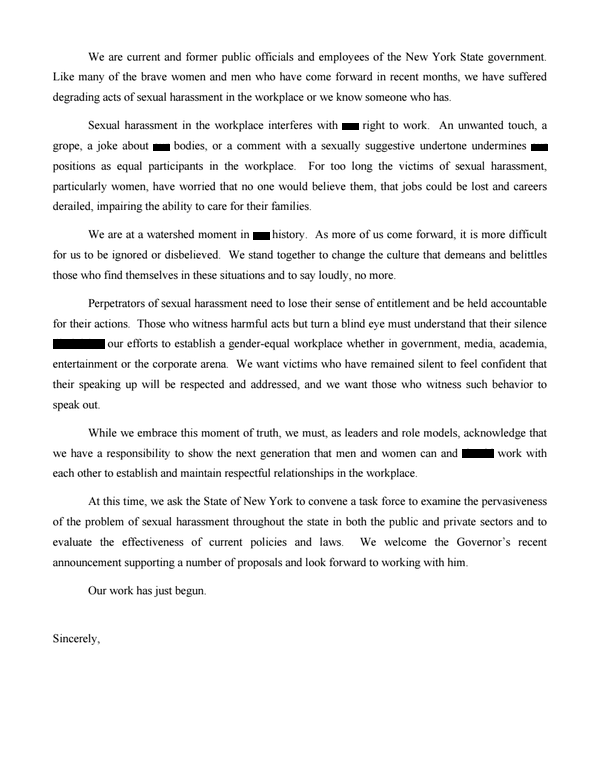
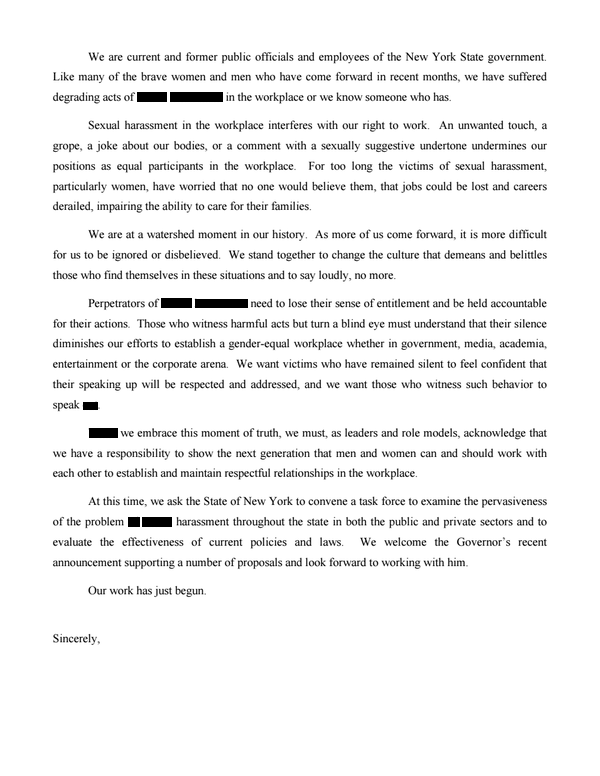
Sentence Decon Part1
Start of sentence decon, working but very buggy and not getting all sentences?

diff --git a/imageProcessing.py b/imageProcessing.py
@@ -1,3 +1,5 @@
+from operator import index
+from posixpath import split
 import cv2
 import numpy as np
 import matplotlib.pyplot as plt
@@ -38,6 +40,8 @@ class imageProcessing():
                     word = word.lower()
                     f_object.write(word + '\n')
                 f_object.close()
+
+        return sentencewords
     
 
     def setup_image(self, img):
@@ -70,8 +74,8 @@ class imageProcessing():
         if os.path.exists("data/words-boxs.csv"):
             os.remove('data/words-boxs.csv')
 
-    def createCSV(self, words, wordstoremove):
-        # Creating words-text.csv ( Contains all words that are found)
+    def createCSV(self, words):
+        # Creating words-text.csv ( Contains all words that are found )
         k = 0
         for j in words:
             tempList = list([words[k]])
@@ -85,7 +89,7 @@ class imageProcessing():
                 f_object.close()
 
     def boundBoxesCSV(self, d):
-        # Creating words-boxs.csv ( Contains all bound boxes that are found)
+        # Creating words-boxs.csv ( Contains all bound boxes that are found )
         n_boxes = len(d['level'])
         for i in range(n_boxes):
             if d['text'][i] != "":
@@ -101,7 +105,7 @@ class imageProcessing():
                     f_object.close()
                 del wList[:]
 
-    def matchWords(self, words, temp, main):
+    def matchWords(self, words, temp, main, sentenceindex):
         # Match the words with the words in the csv file
         indexList = []
         with open('data/words-matched.csv', 'w') as outFile:
@@ -113,6 +117,9 @@ class imageProcessing():
                     words[index] = words[index].replace(
                         line, line + ' ')  # needed for duplicates
                     indexList.append(index)
+        indexList.extend(sentenceindex)
+        print(indexList)
+        list(set(indexList))
         return indexList
 
     def drawBoxes(self, img, indexList):
@@ -126,15 +133,55 @@ class imageProcessing():
         cv2.imwrite("static/images/output.png", img)
         return "output.png"
 
+    def drawSentenceBoxes(self, sentencewords):
+        # get position of sentence words from words-text.csv
+        # return sentenceindexlist 
+        # append to indexList in matchWords
+        print(sentencewords)
+        with open('data/words-text.csv', 'r') as f:
+            read = list(csv.reader(f))
+            indexes = []
+            for s in sentencewords:
+                splitsentence = s.split(' ')
+                print(splitsentence)
+
+                for i, value in enumerate(read):
+                    # i = index, value = text
+                    # print(i, value)
+                    if value[0] == splitsentence[0]:
+                        # print(i, splitsentence[0], splitsentence[1])
+                        # print(read[i][0], read[i+1][0])
+                        for k in range(len(splitsentence)):
+                            if read[i+k][0] == splitsentence[k]:
+                                indexes.append(str(i+k))
+                                #  i+k = index, read[i+k][0] = value
+                                # print(i+k, read[i+k][0])
+
+            # for i in indexes:
+            #     print(i+1)
+                # if (int(i) + 1) - (int(i)) == 1:
+                #     print(i)
+            indexes = [int(x) for x in indexes] # make the list: int and not str
+            print(indexes)
+            sentenceindex = []
+            for i in range(len(indexes)-1):
+                if indexes[i]+1 == indexes[i+1]:
+                    sentenceindex.append(indexes[i])
+                    sentenceindex.append(indexes[i+1])
+            print(sentenceindex)
+        return sentenceindex
+
+
     def run(self, img, wordstoremove, decontype):
         # start timer for performance
         start = cv2.getTickCount()
         self.removeFiles()
         img = cv2.imread(img)
-        self.custom_csv(wordstoremove, decontype)
+        sentencewords = self.custom_csv(wordstoremove, decontype)
         tempImg = self.setup_image(img)
         words, d = self.getWords(tempImg)
-        self.createCSV(words,wordstoremove)
+        self.createCSV(words)
+        sentenceindex = self.drawSentenceBoxes(sentencewords)
         self.boundBoxesCSV(d) 
         if os.path.exists("data/custom-words.csv"):
             with open('data/custom-words.csv', 'r') as csv1, open('data/words-text.csv', 'r') as csv2:
@@ -144,7 +191,7 @@ class imageProcessing():
             with open('data/bad.csv', 'r') as csv1, open('data/words-text.csv', 'r') as csv2:
                 main = csv1.readlines()  # Bad Words Dataset
                 temp = csv2.readlines()  # Dataset created from inputted image
-        matchedWords = self.matchWords(words, temp, main)
+        matchedWords = self.matchWords(words, temp, main, sentenceindex)
         image = self.drawBoxes(img, matchedWords)
         # end timer for performance
         end = cv2.getTickCount()
@@ -157,7 +204,7 @@ class imageProcessing():
 if __name__ == "__main__":
     img = "data/letter.png"
     color = "white"
-    wordstoremove = "we are, our, work"
+    wordstoremove = "sexual harassment, we are"
     decontype = "custom"
     imageProc = imageProcessing(img, color, wordstoremove, decontype)
     imageProc.run(img, wordstoremove, decontype)
